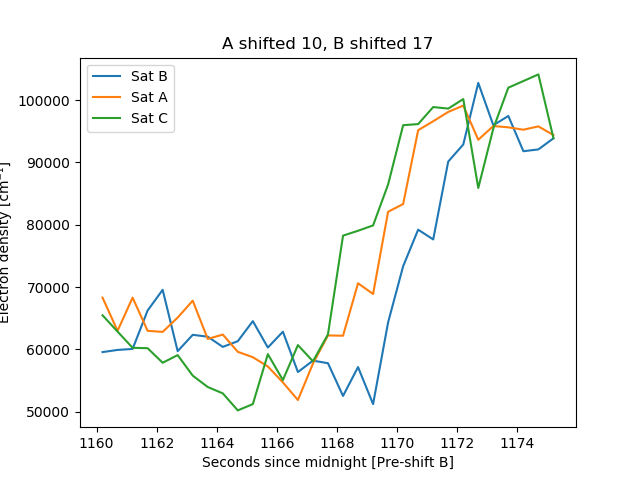
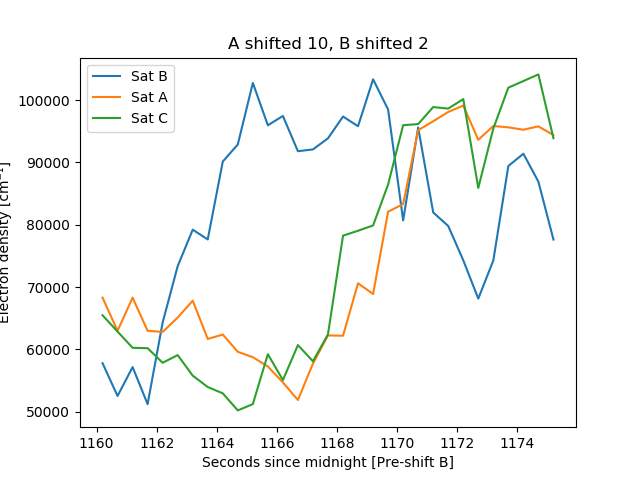
Added figures

diff --git a/SWARM/wave_inspector.py b/SWARM/wave_inspector.py
@@ -174,7 +174,9 @@ class WaveInspect(SWARMprocess):
         plt.title("A shifted %g, B shifted %g" % (max_indA, max_indB))
         plt.savefig("/home/aksel/Documents/Master/Spacemaster/SWARM/Figures/intersting_case_shifted.png")
         plt.show()
+        print(self.cdfA["U_orbit"][index1])
         print(self.cdfB["U_orbit"][index1])
+        print(self.cdfC["U_orbit"][index1])
 
 
     def pole_case_study2(self):
@@ -214,6 +216,7 @@ class WaveInspect(SWARMprocess):
         testC = NeC[index1:index2]
         test_seconds = seconds[index1:index2]
 
+
         mean_range = 10
         meanieB = self.meanie(diff_B, mean_range)
         meanieA = self.meanie(diff_A, mean_range)
@@ -233,6 +236,37 @@ class WaveInspect(SWARMprocess):
 
         shift_testA = NeA[index1 + Ashift:index2 + Ashift]
         shift_testC = NeC[index1 + Cshift:index2 + Cshift]
+
+        plt.plot(test_seconds, testB)
+        plt.plot(test_seconds, testA)
+        plt.plot(test_seconds, testC)
+        plt.legend(["Sat B", "Sat A", "Sat C"])
+        plt.xlabel("Seconds since midnight of sat B")
+        plt.ylabel("Electron density [cm⁻¹]")
+        plt.title("An interesting case")
+        plt.savefig(self.figpath + "intersting_case_meandiff.png")
+        plt.show()
+
+        plt.plot(diff_sec[index1:index2],diff_B[index1:index2])
+        plt.plot(diff_sec[index1:index2],diff_A[index1:index2])
+        plt.plot(diff_sec[index1:index2], diff_C[index1:index2])
+        plt.legend(["Sat B", "Sat A", "Sat C"])
+        plt.title("Difference in electron density between points")
+        plt.ylabel("$\Delta N_e$")
+        plt.xlabel("Seconds since midnight of Sat B")
+        plt.savefig(self.figpath + "electron_density_deltas.png")
+        plt.show()
+
+        plt.plot(diff_sec[index1:index2], meanieB[index1:index2])
+        plt.plot(diff_sec[index1:index2], meanieA[index1:index2])
+        plt.plot(diff_sec[index1:index2], meanieC[index1:index2])
+        plt.legend(["Sat B", "Sat A", "Sat C"])
+        plt.title("Smoothened electron density differences")
+        plt.xlabel("Seconds since midnight of Sat B")
+        plt.ylabel("$\Delta N_e$")
+        plt.savefig(self.figpath + "electron_density_deltas_smoothened.png")
+        plt.show()
+
 
         plt.plot(test_seconds, testB)
         plt.plot(test_seconds, shift_testA)
@@ -367,4 +401,4 @@ class WaveInspect(SWARMprocess):
         plt.show()
 if __name__ == "__main__":
     object = WaveInspect()
-    object.pole_case_study()
+    object.pole_case_study2()
